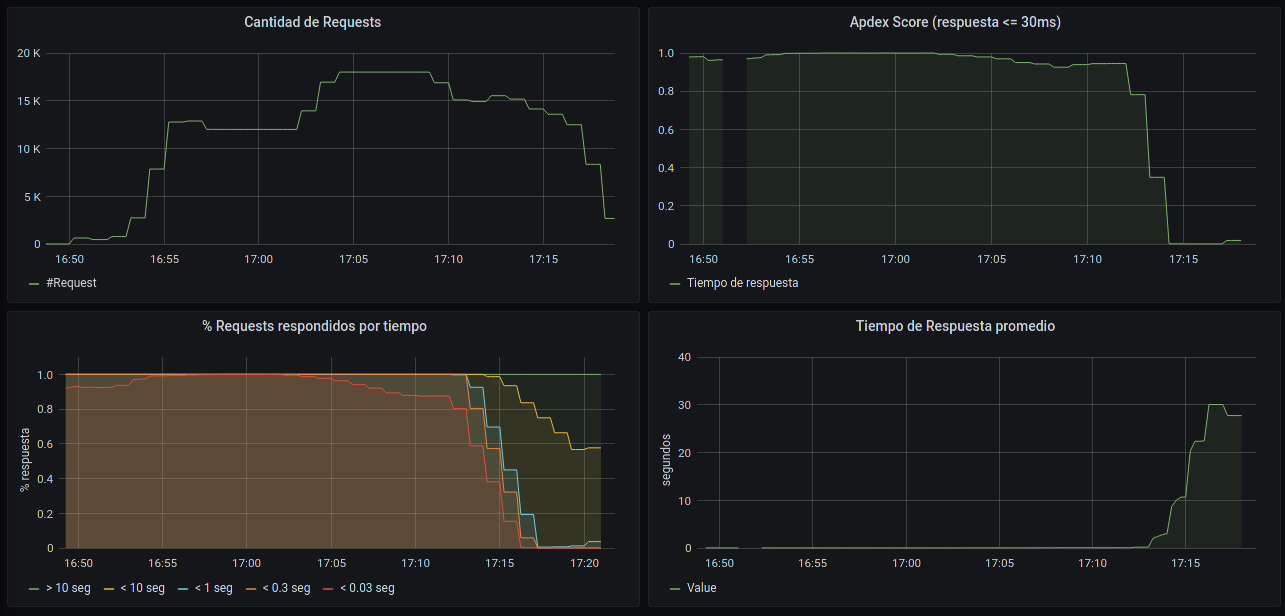
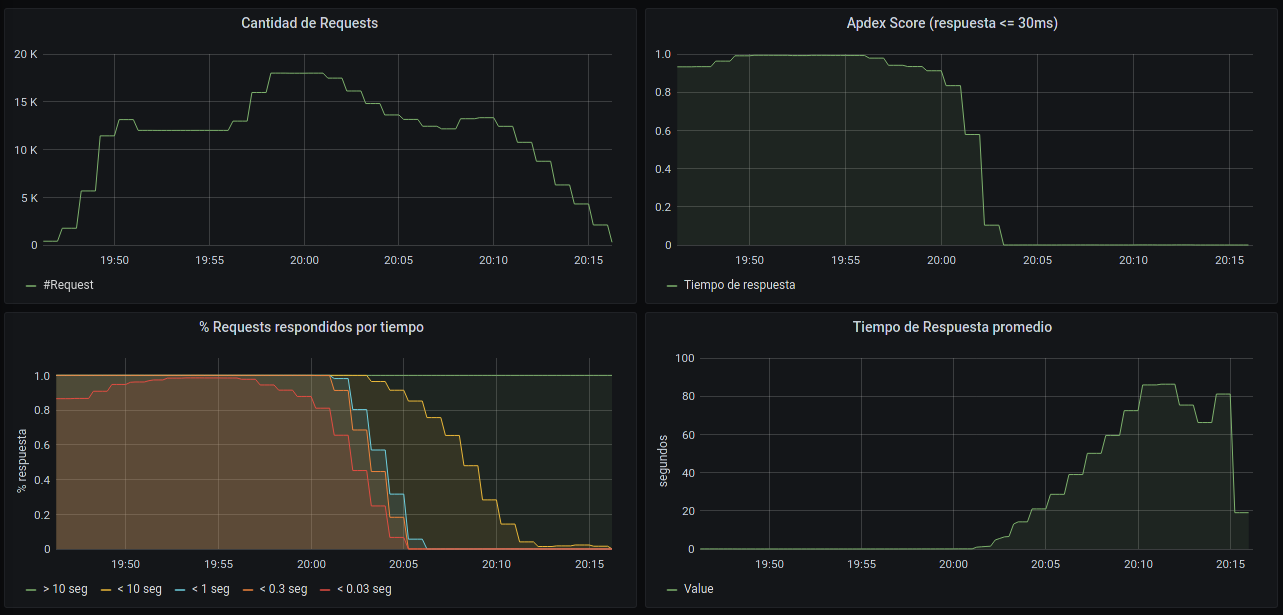
:pencil: cerrando monitoreo

diff --git a/Monitoreo.md b/Monitoreo.md
@@ -163,8 +163,73 @@ Summary report
 
 #### Mediciones de Uso de CPU y Memoria
 
-No sabemos por qué, pero al limitar los recursos, el exportador del sistema
-(node-exporter) dejó de exportar resultados de CPU, Memoria, etc.
+![Reporte de CPU y Memoria - Corrida 2](img/Reporte-CPU-Memory-corrida2.png)
+
+## Resultados 3: Bajando los niveles de carga
+
+Para este experimento bajamos los niveles de carga dado que la
+corrida anterior era muy intensiva. A su vez mantuvimos las limitaciones
+de CPU y memoria descriptas en el experimento anterior.
+
+```yaml
+phases:
+  - duration: 60
+    arrivalRate: 2
+  - duration: 120
+    arrivalRate: 2
+    rampTo: 5
+  - duration: 420
+    arrivalRate: 2
+  - duration: 420
+    arrivalRate: 3
+  - duration: 420
+    arrivalRate: 1
+scenarios:
+  - think: 5 # delay
+  - post:
+      url: "/users"
+  - think: 2
+  - post:
+      url: "/session"
+  - think: 3
+  - post:
+      url: "/request-supplies"
+  - post:
+      url: "/session"
+  - get:
+      url: "/request-supplies?status=Pending"
+```
+
+### Resultados
+
+```txt
+Summary report
+  Scenarios launched:  3070
+  Scenarios completed: 3070
+  Requests completed:  15350
+  Mean response/sec: 10.62
+  Response time (msec):
+    min: 1.9
+    max: 115
+    median: 8.5
+    p95: 31.3
+    p99: 45.6
+  Scenario counts:
+    Register user: 3070 (100%)
+  Codes:
+    200: 9207
+    201: 6134
+    400: 6
+    401: 3
+```
+
+#### Mediciones de Respuestas
+
+![Reporte de Responses - Corrida 3](img/Reporte-Responses-corrida3.png)
+
+#### Mediciones de Uso de CPU y Memoria
+
+![Reporte de CPU y Memoria - Corrida 3](img/Reporte-CPU-Memory-corrida3.png)
 
 ## Conclusiones
 
@@ -180,3 +245,21 @@ exportadores de métricas para prometheus compatibles con artillery, que es
 desde donde deberíamos medirlo. En consecuencia las métricas se obtienen
 desde el servidor pero no desde el cliente, para conocer la efectividad
 del servicio que percibe el cliente.
+
+Por otro lado, sabemos que hay ciertas definiciones a nivel aplicación
+que podrían ser mejoradas pero no las hicimos adrede para analizar el comportamiento.
+Principalmente, todos los requests a los endpoint de tipo `/support`
+podrían _cachearse_ para evitar ir a la base de datos a buscarlos cada vez,
+dado que son datos que no van a cambiar con frecuencia. Eso mejoraría
+la performance de las respuestas y el consumo de recursos.
+
+También notamos que cometimos un error en la aplicación cuando definimos
+la paginación de los pedidos de insumos. Nos dimos cuenta sobre el final
+que estamos haciendo paginación a nivel aplicación pero no a nivel base de datos.
+Si bien estamos reduciendo el tráfico HTTP a enviar solo una parte de resultados,
+la base de datos hace el pedido completo, y a medida que crecen los pedidos,
+crece la demanda a la base y reduce la performance d ela aplicación
+esperando los resultados de la base, llegando a tener consultas de miles
+de pedidos que no solo consumen tiempo de respuesta de la base a la aplicación
+sino también consumo de memoria de la aplicación al tener que guardarlos
+todos en memoria para devolver luego solo una parte.
